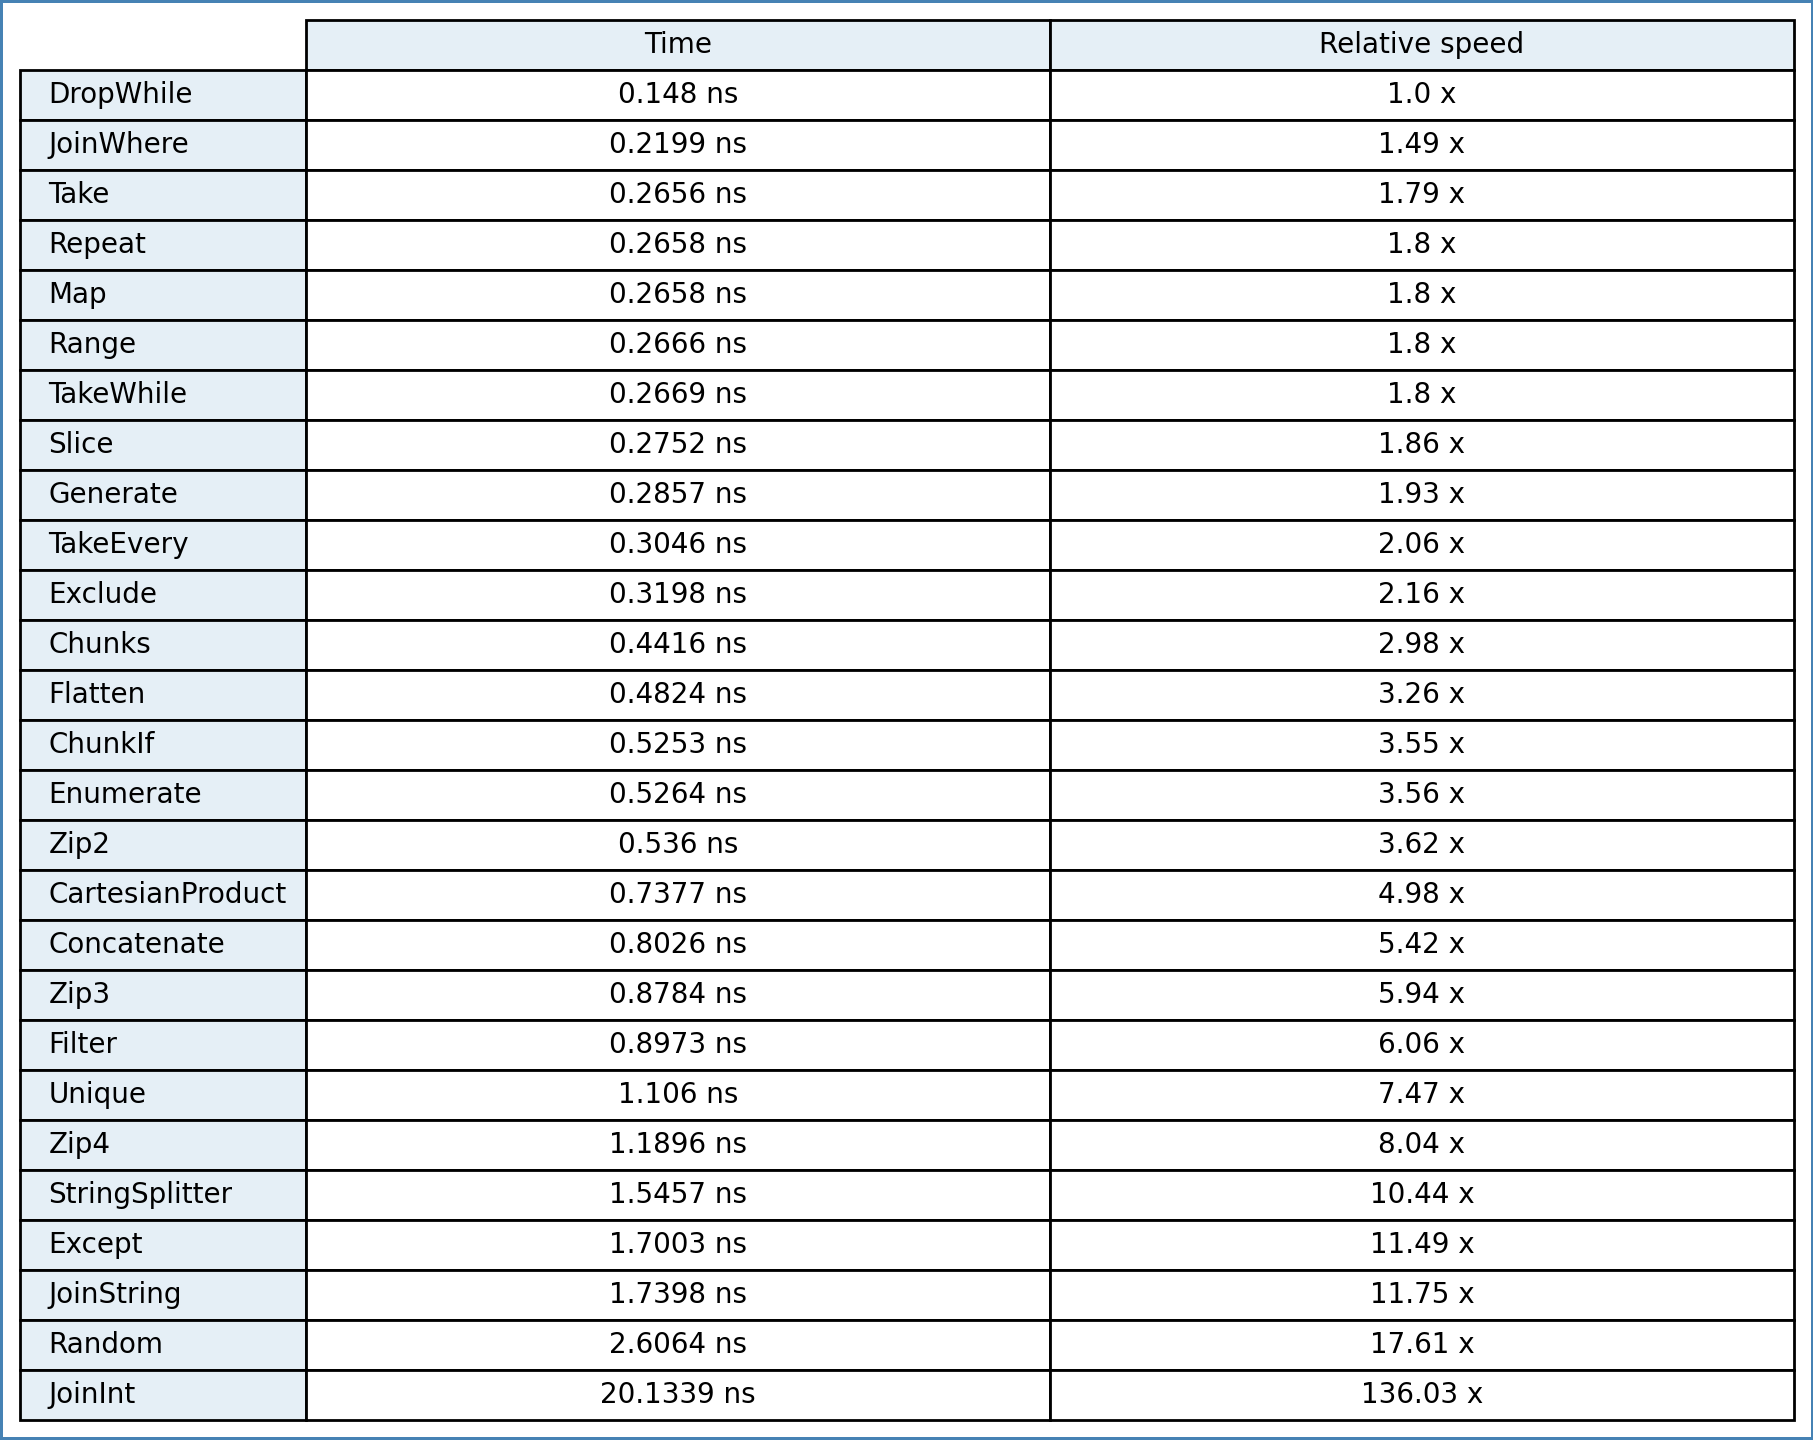
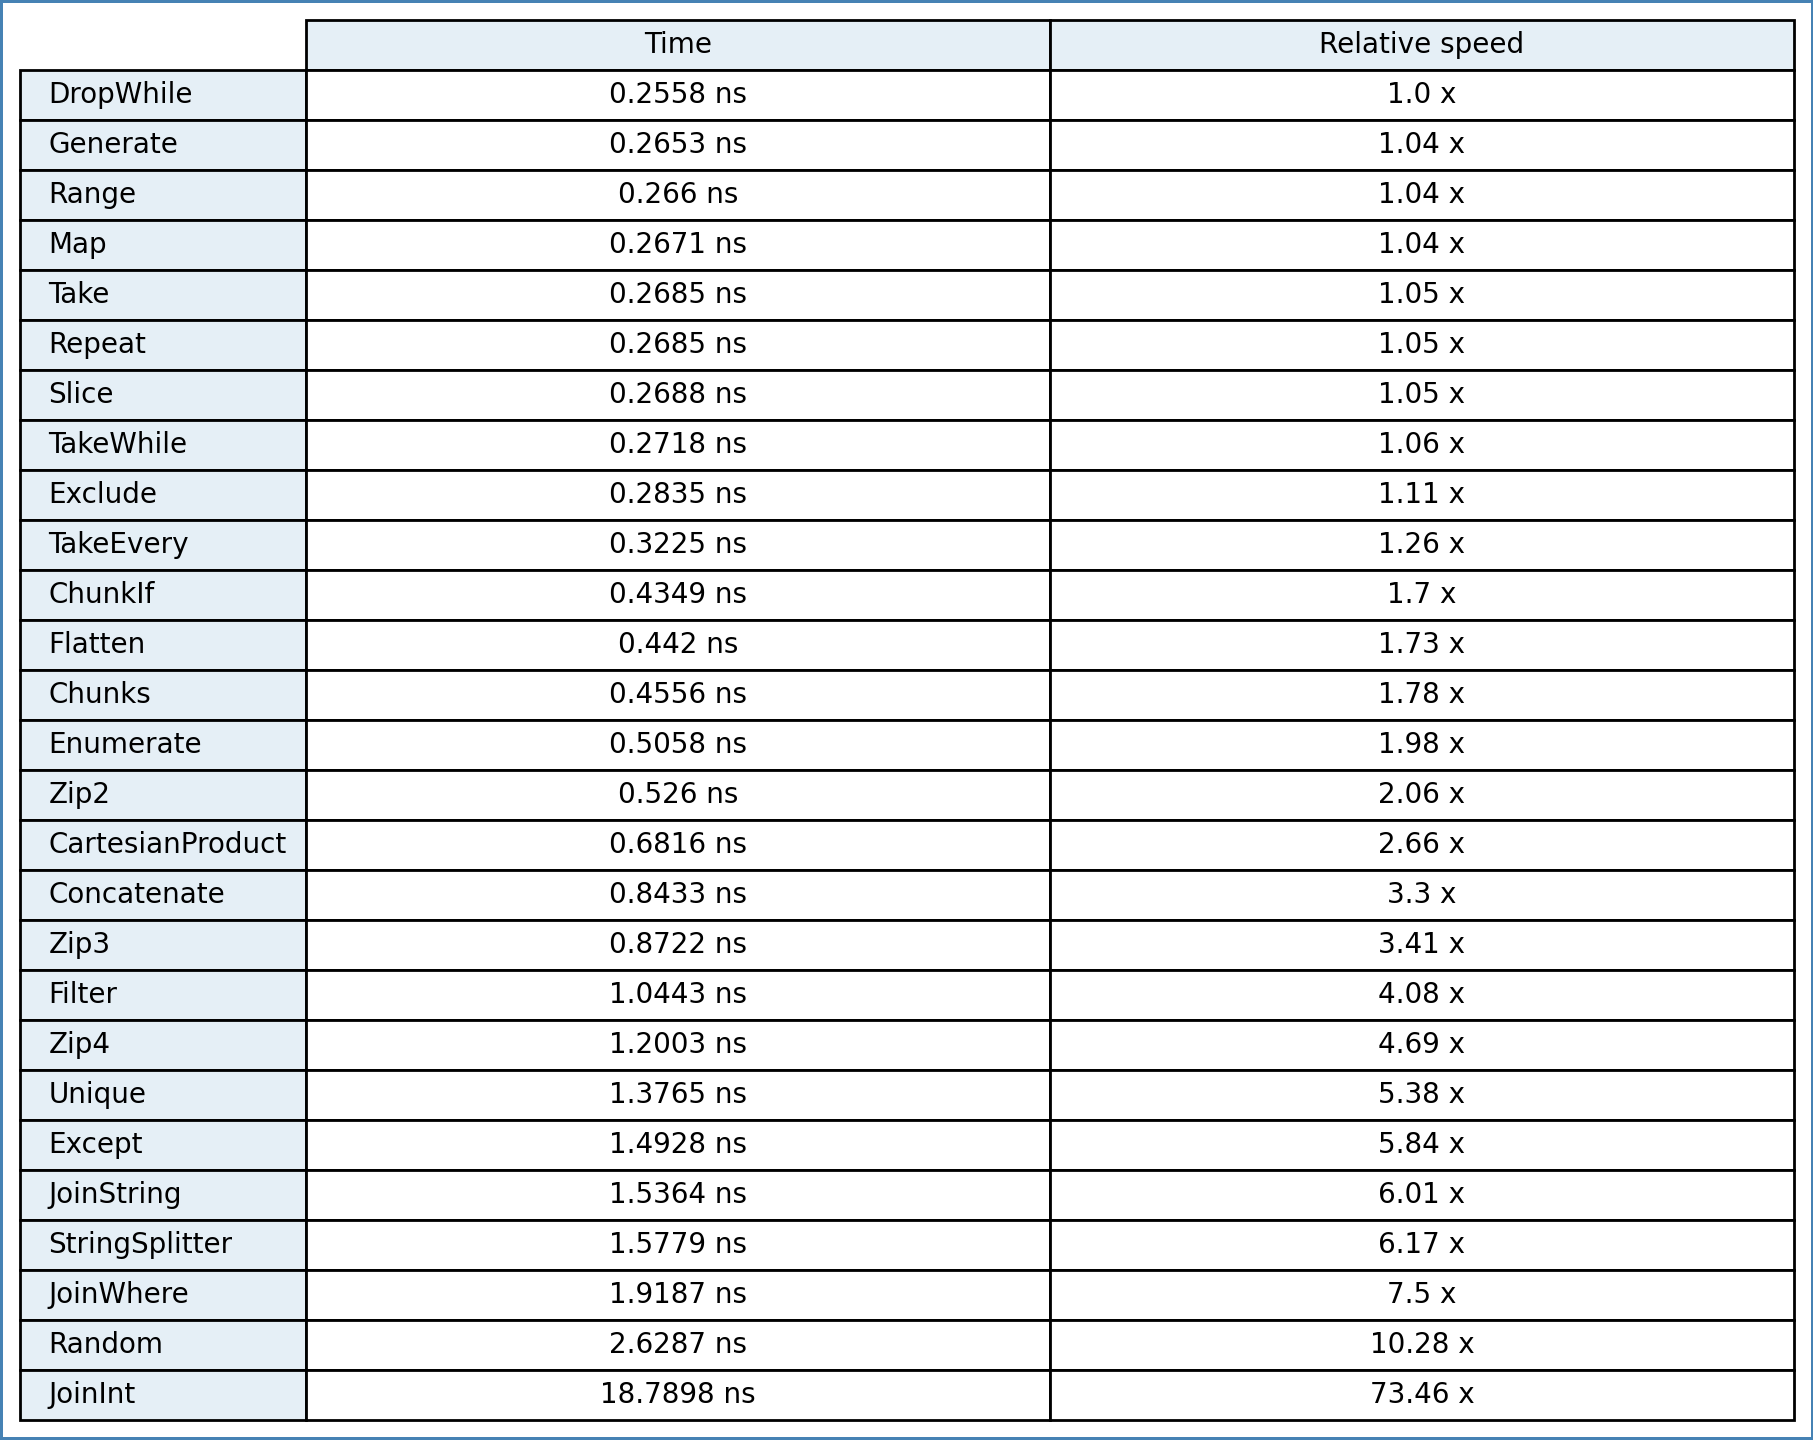
Benchmark update

diff --git a/bench/benchmarks-iterators.cpp b/bench/benchmarks-iterators.cpp
@@ -22,7 +22,7 @@ static void CartesianProduct(benchmark::State& state) {
 static void ChunkIf(benchmark::State& state) {
 	std::array<int, SizePolicy> a = lz::range<int>(SizePolicy).toArray<SizePolicy>();
 	auto half = static_cast<int>(SizePolicy / 2);
-	auto chunk = lz::chunkIf(a, [half](int i) { return i == half; });
+	auto chunk = lz::chunkIf(a, [half](int i) noexcept { return i == half; });
 	for (auto _ : state) {
 		for (auto&& x : chunk) {
 			for (int y : x) {
@@ -61,9 +61,9 @@ static void JoinWhere(benchmark::State& state) {
     toJoin[randomIndex.nextRandom()] = arr[randomIndex.nextRandom()]; // Create a value where both values are equal
 	std::sort(toJoin.begin(), toJoin.end());
     auto joiner = lz::joinWhere(arr, toJoin,
-                                [](int i) { return i; },
-                                [](int i) { return i; },
-                                [](int a, int b) { return std::make_tuple(a, b);});
+                                [](int i) noexcept { return i; },
+                                [](int i) noexcept { return i; },
+                                [](int a, int b) noexcept { return std::make_tuple(a, b);});
     assert(std::is_sorted(arr.begin(), arr.end()));
 
     for (auto _ : state) {
@@ -96,7 +96,7 @@ static void Exclude(benchmark::State& state) {
 
 static void Filter(benchmark::State& state) {
     std::array<int, SizePolicy> arr{};
-    auto filter = lz::filter(arr, [](const int i) { return i == 0; });
+    auto filter = lz::filter(arr, [](const int i) noexcept { return i == 0; });
 
     for (auto _ : state) {
         for (const int filtered : filter) {
@@ -107,7 +107,7 @@ static void Filter(benchmark::State& state) {
 
 static void Map(benchmark::State& state) {
     std::array<int, SizePolicy> arr{};
-    auto map = lz::map(arr, [](const int i) { return i == 0 ? 10 : 5; });
+    auto map = lz::map(arr, [](const int i) noexcept { return i == 0 ? 10 : 5; });
 
     for (auto _ : state) {
         for (const int mapped : map) {
@@ -146,7 +146,7 @@ static void StringSplitter(benchmark::State& state) {
 
 static void TakeWhile(benchmark::State& state) {
     std::array<int, SizePolicy> array = lz::range(static_cast<int>(SizePolicy)).toArray<SizePolicy>();
-    auto takeWhile = lz::takeWhile(array, [](const int i) { return i != SizePolicy - 1; });
+    auto takeWhile = lz::takeWhile(array, [](const int i) noexcept { return i != SizePolicy - 1; });
 
     for (auto _ : state) {
         for (const int taken : takeWhile) {
@@ -270,7 +270,7 @@ static void DropWhile(benchmark::State& state) {
         return 1;
     }, SizePolicy).toArray<SizePolicy>();
 
-    auto drop = lz::dropWhile(array, [](const int i) {
+    auto drop = lz::dropWhile(array, [](const int i) noexcept {
         return i == 1;
     });
 
@@ -283,7 +283,7 @@ static void DropWhile(benchmark::State& state) {
 
 static void Generate(benchmark::State& state) {
     size_t cnt = 0;
-    auto generator = lz::generate([&cnt]() { return cnt++; }, SizePolicy);
+    auto generator = lz::generate([&cnt]() noexcept { return cnt++; }, SizePolicy);
 
     for (auto _ : state) {
         for (const auto i : generator) {
